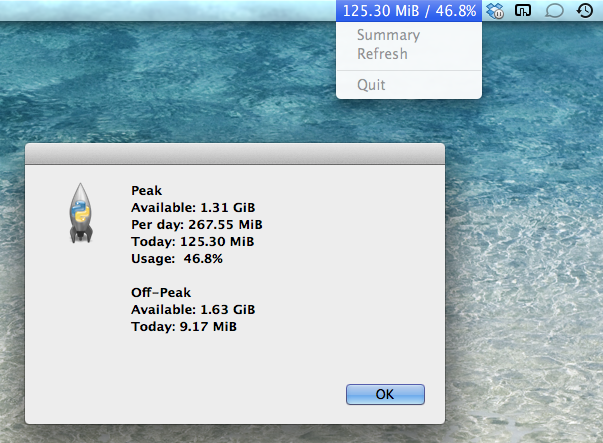
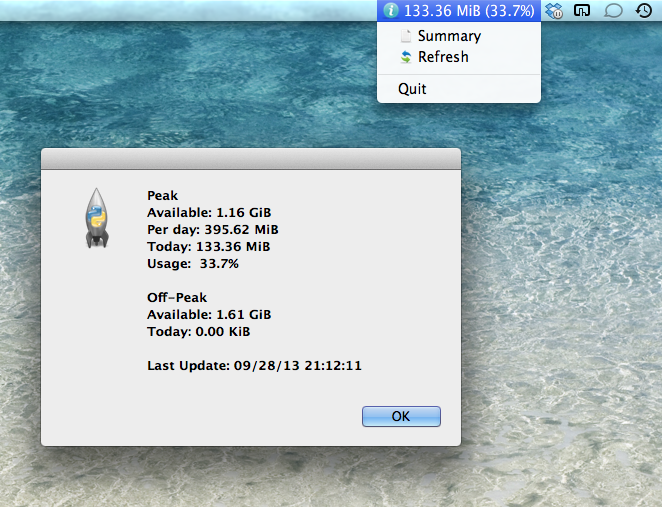
Minor tweaks and new screen shot.
The app created by py2app doesn't quite work, but you can run it from
the command line. See this thread for a discussion:
https://github.com/jaredks/rumps/issues/4.

diff --git a/Vodacom Data Usage.py b/Vodacom Data Usage.py
@@ -14,11 +14,11 @@
 # limitations under the License.
 
 # TODO:
-# threading
-# py2app
-# icon (dock/bar)
-# auto start
+# background updating
+# py2app (WIP, can't install)
+# auto start (plist, LaunchDaemon, post-install script)
 # notifications (50%, 80%, 95%)
+# update screen shot
 
 # Local
 import argparse
@@ -377,7 +377,9 @@ if __name__ == "__main__":
     """
     Main entry point.
     """
-    logger = get_logger("{0}/conf/logger.conf".format(os.path.dirname(__file__)))
+    p = os.path.dirname(os.path.abspath(__file__))
+    l = "{0}/conf/logger.conf".format(p)
+    logger = get_logger(l)
     info = {}
     #from Foundation import NSAutoreleasePool
     #pool = NSAutoreleasePool.alloc().init()

diff --git a/setup.py b/setup.py
@@ -5,6 +5,7 @@ Usage:
     python setup.py py2app
 """
 
+import py2app
 from setuptools import setup
 
 APP = ['Vodacom Data Usage.py']
@@ -18,7 +19,14 @@ DATA_FILES =  [('icons', ['icons/app_24x24.png',
                ('logs', ['logs/Vodacom Data Usage.log']),
                ('', ['README.md',
                      'LICENSE'])]
-OPTIONS = {}
+OPTIONS = {
+    #'argv_emulation': True,
+    'plist': {
+        'LSUIElement': True,
+    },
+    'packages': ['rumps'], 
+    'iconfile': 'icons/app_128x128.icns'
+}
 
 setup(
     app=APP,
